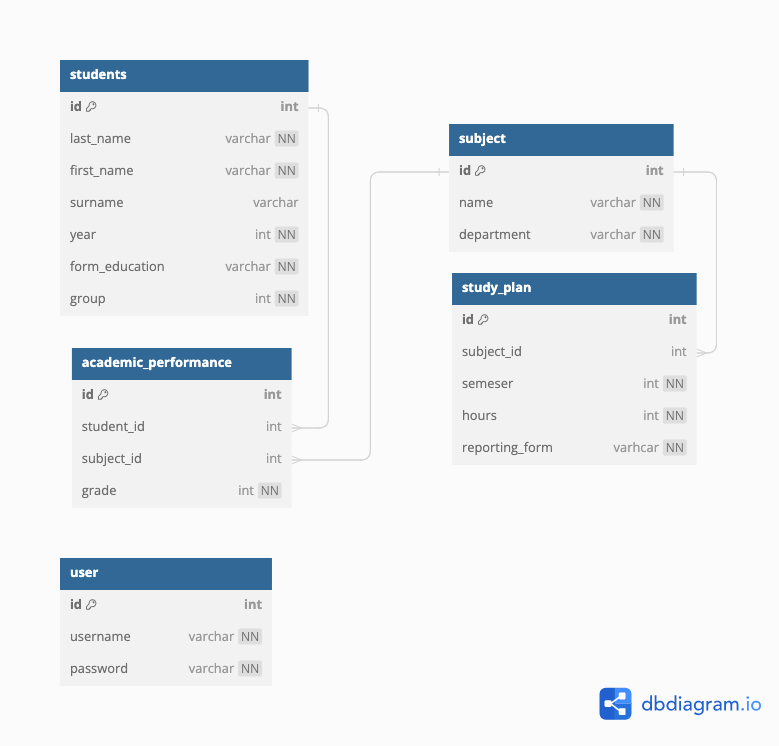
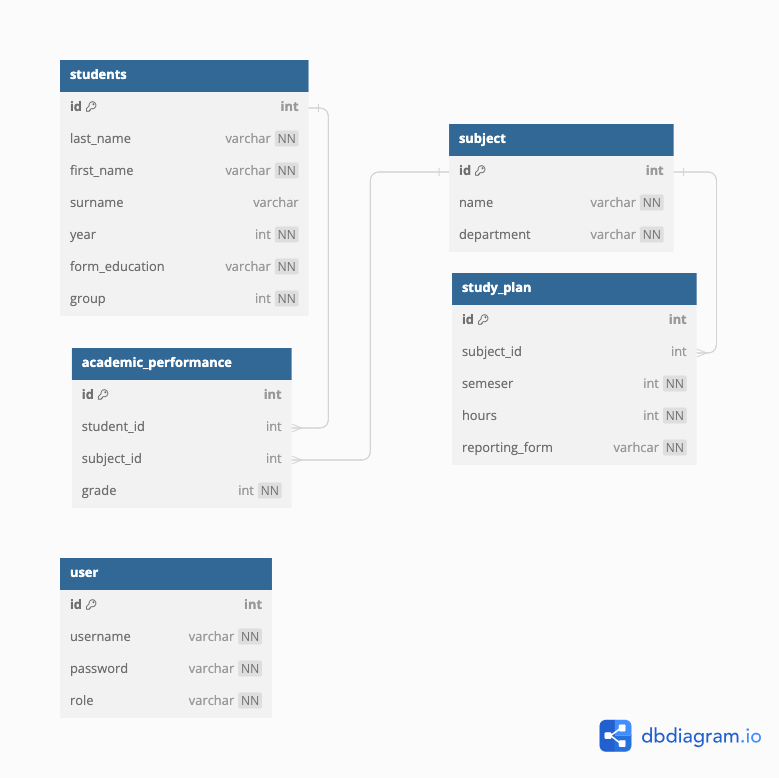
add role for user

diff --git a/src/main/java/com/greenblat/deansoffice/model/User.java b/src/main/java/com/greenblat/deansoffice/model/User.java
@@ -24,4 +24,7 @@ public class User {
 
     private boolean superuser;
 
+    @Enumerated(EnumType.STRING)
+    private Role role;
+
 }

diff --git a/src/main/java/com/greenblat/deansoffice/model/Role.java b/src/main/java/com/greenblat/deansoffice/model/Role.java
@@ -1,0 +1,5 @@
+package com.greenblat.deansoffice.model;
+
+public enum Role {
+    USER, ADMIN
+}
